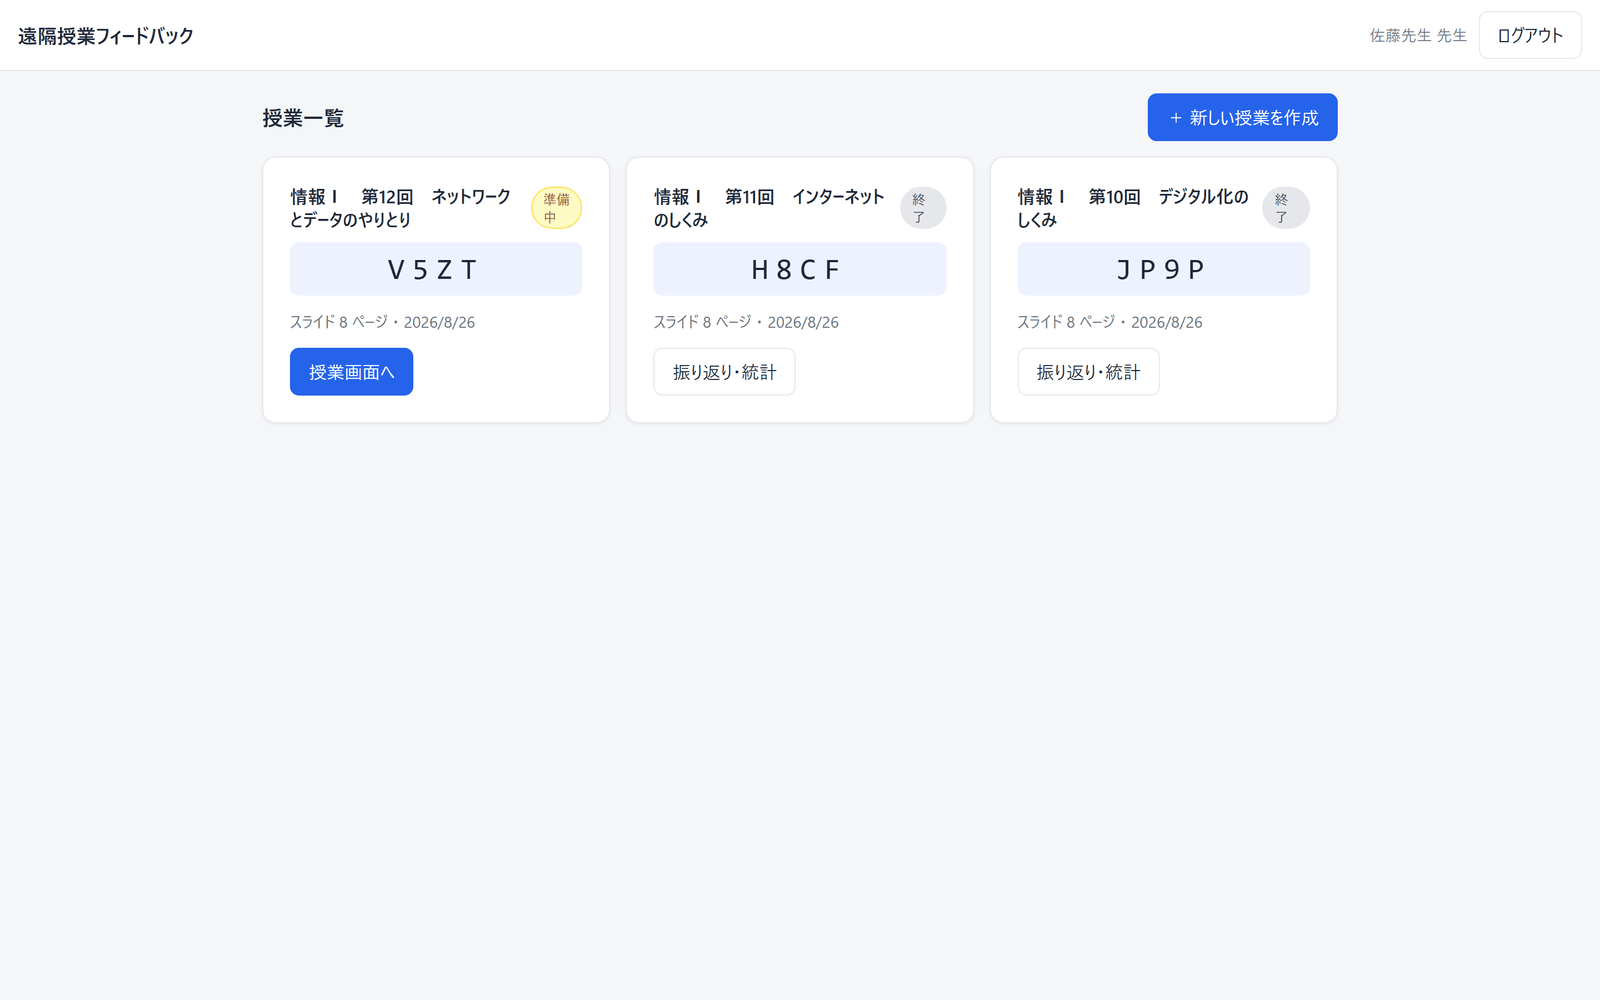
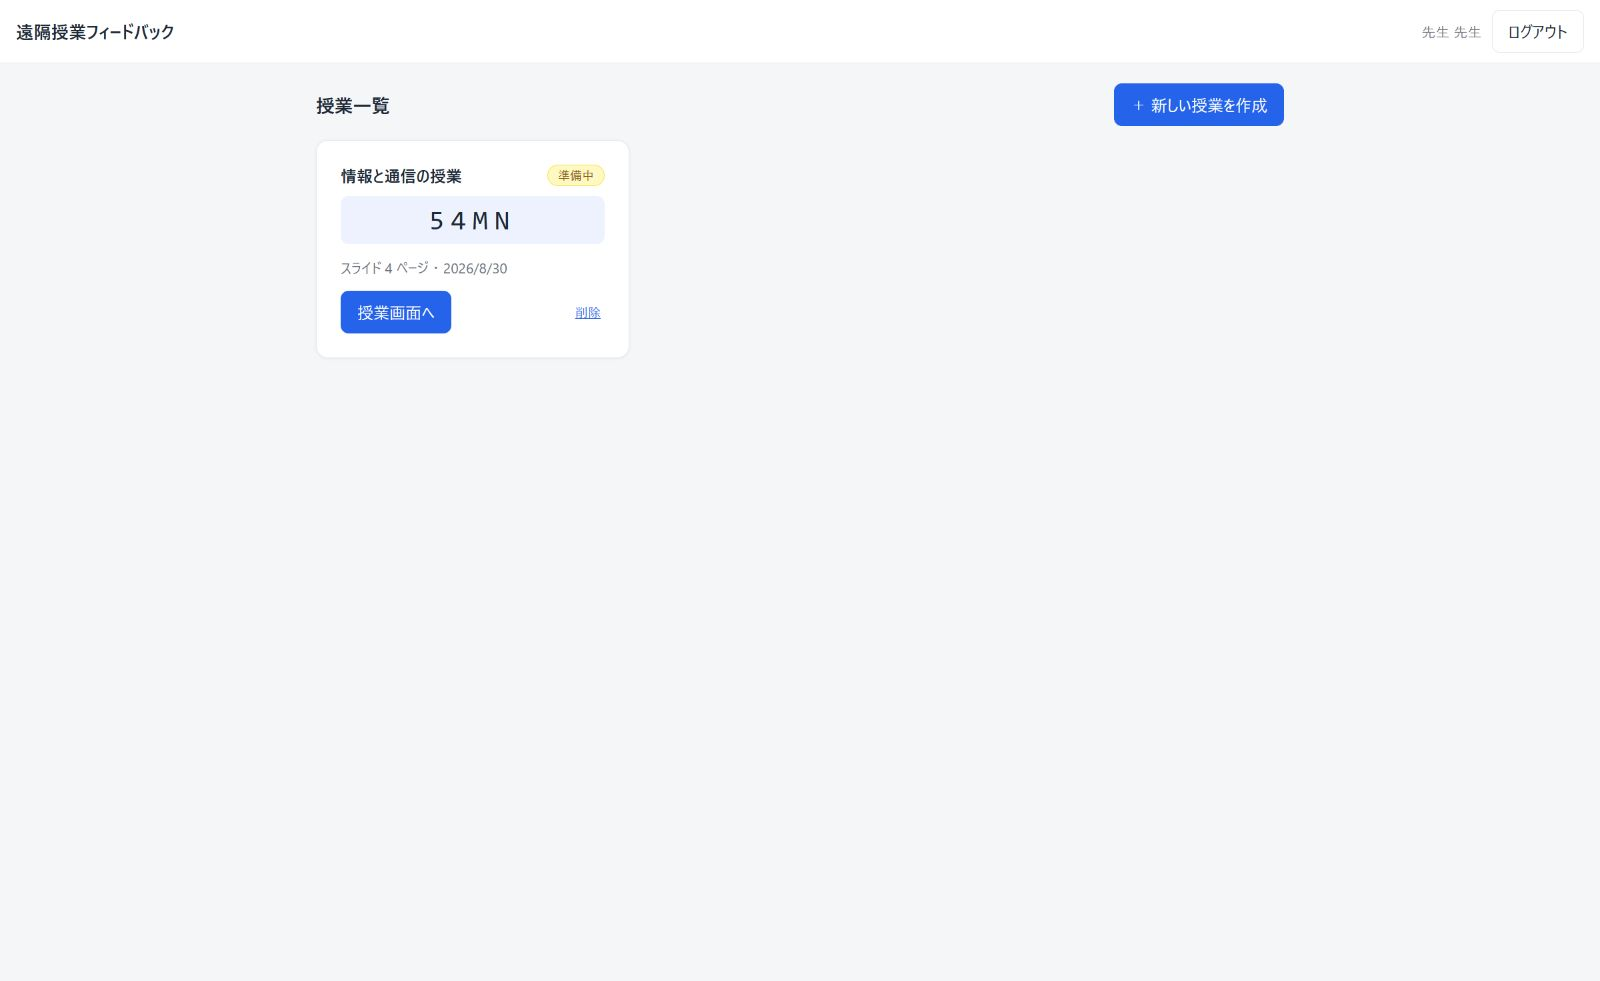
説明書と画面例を最終仕様に合わせる
READMEと関連文書から重複や旧仕様の説明を整理し、スライド操作、AI機能、教室モニター、コメント分類の現在の動作へ揃える。

画面例を最新UIへ差し替え、類似質問の統合、カード単位のチップ、授業外の分類、生徒5人の表示を反映する。

diff --git a/README.md b/README.md
@@ -5,12 +5,12 @@
 生徒の理解や進行度合いを、先生が授業中に把握しやすいよう支援します。
 
 生徒がボタン・コメント・タスク・アンケートで意思表示できます。
-AIによるコメント整理を使用すると、関連する説明や確認できない点などが項目別に表示されます。
+AIによるコメント整理を使用すると、コメントのカードに種類が付き、質問には説明済みの内容と未説明の内容が表示されます。
 授業後は、その瞬間に戻っての振り返りや、復習動画の作成ができます。
 
 先生も生徒もアプリのインストールは不要で、URLを開くだけで使えます。
 
-![先生の授業画面。スライドへの書き込みと、生徒から届いたコメント・反応が同じ画面に並ぶ](docs/images/teach.png)
+![先生の授業画面。スライドへの書き込みと、生徒から届いたコメントや反応が同じ画面に並ぶ](docs/images/teach.png)
 
 ---
 
@@ -75,7 +75,7 @@ AIによるコメント整理を使用すると、関連する説明や確認で
 
 | 機能 | 説明 |
 |---|---|
-| **スライド配信** | PDFをアップロードすると、ページ送り・書き込み・ポインターがリアルタイムで同期されます。画面のボタン、矢印キーなど、スライド一覧からページを移動できます |
+| **スライド配信** | PDFをアップロードすると、ページ送り・書き込み・ポインターがリアルタイムで同期されます。画面のボタン・矢印キー・スライド一覧からページを移動できます |
 | **音声配信** | 先生のマイク音声を低遅延で配信します。受信端末に応じて、Opus / AACを自動的に振り分けます |
 | **カメラ映像**（任意） | 先生の顔や手元の実演を、音声と同じストリームで配信します。生徒は端末ごとに映像を受信しない設定を選択できます |
 | **白紙スライドの挿入** | 授業中に白紙ページを挿入し、説明の書き込みに使用できます。元のPDFは変更されません |
@@ -83,9 +83,9 @@ AIによるコメント整理を使用すると、関連する説明や確認で
 | **自動字幕** | 先生の発話をリアルタイムで字幕表示します。先生の端末にはChromeまたはEdgeが必要です |
 | **タスク進捗** | 生徒がチェックした進捗を棒グラフで表示します。未完了の生徒は、進捗を変更していない時間が長い順に8人まで表示します |
 | **アンケート** | 選択式・段階評価・記述式の設問を表示します。選択式と段階評価の集計結果は、生徒へ公開するかどうかを選択できます |
-| **コメント整理**（任意） | コメントを受信すると、「関連する説明」「確認できない点」「授業外」「困りごと」「意見・感想」のうち該当する項目を表示します。近い時刻のコメントは1枚のカードにまとめます。カードは対応済みにするまで表示されます（[操作方法](docs/先生向けガイド.md#生徒の反応を見る)） |
+| **コメント整理**（任意） | コメントのカードに「質問」「困りごと」「授業外」「意見・感想」のチップを1つ付けます。質問には「説明した内容」「説明前の内容」を補足します。時刻が近く、同じ話題のコメントは1枚のカードにまとめます。カードは対応済みにするまで表示されます（[操作方法](docs/先生向けガイド.md#生徒の反応を見る)） |
 | **AI機能設定** | コメント整理、字幕履歴の補正、授業全体の要約、復習動画の自動章分けを授業ごとに選択できます。設定は授業開始前に行います |
-| **教室モニター** | 教室モニターや電子黒板に投影する表示専用ページです。参加用QRコードは、授業前に自動表示され、授業中も操作バーから表示できます |
+| **教室モニター** | 教室モニターや電子黒板に投影する表示専用ページです。参加用QRコードは、授業前に自動表示され、授業中も操作バーから表示できます。カメラ映像の配置は[先生向けガイド「対面授業との併用」](docs/先生向けガイド.md#対面授業との併用)に記載しています |
 
 ### 授業後
 
@@ -189,14 +189,14 @@ WebMを再生できる端末にも約4秒の遅延が加わります。
 
 ## 授業当日の流れ
 
-![先生のダッシュボード。ここから新しい授業を作り、終わった授業の振り返りも開く](docs/images/dashboard.png)
+![先生の授業一覧。ここから新しい授業を作り、授業画面を開く](docs/images/dashboard.png)
 
 1. **事前確認** — 教室の端末で`/check`を開き、接続・音声・マイクを確認します。
 2. **授業の作成** — `/dashboard`でPDFをアップロードします。作成後に、4文字の授業コードが表示されます。
 3. **参加方法の案内** — 授業コード、URL、QRコードのいずれかを生徒へ提示します。
 4. **機能の設定** — 使用するAI機能を選択します。授業を開始したあとは変更できません。
 5. **授業の開始** — 「授業を開始」を押すと、配信と録音が始まります。スライド移動・ポインターなどは、この時刻以降の操作を記録します。開始前の書き込みは、開始0分時点の状態として記録します。
-6. **授業中の操作** — 画面のボタン、キーボード、スライド一覧でページを移動し、必要に応じて書き込みます。コメント整理を使用する場合は、コメントの内容が5項目に整理されます。
+6. **授業中の操作** — 画面のボタン、キーボード、スライド一覧でページを移動し、必要に応じて書き込みます。コメント整理を使用する場合は、カードの種類と、質問に関係する説明が表示されます。
 7. **授業の終了** — 「授業を終了」を押します。終了後は、`/review/:id`で授業を振り返ることができます。
 
 各画面の操作は **[先生向けガイド](docs/先生向けガイド.md)** にあります。
@@ -218,7 +218,7 @@ flowchart LR
   SRV["サーバ<br/>Fastify + Socket.IO"]
   DB[("PostgreSQL")]
   FS[("ファイル<br/>PDF・録音")]
-  AI["AI<br/>Whisper / Claude / GPT"]
+  AI["OpenAI API<br/>文字起こし・要約"]
 
   T -->|"音声・映像・ページ送り・書き込み"| SRV
   SRV -->|"配信"| S
@@ -323,15 +323,9 @@ SUMMARY_PROVIDER=openai
 OPENAI_API_KEY=sk-...
 ```
 
-要約にAnthropicを使用する場合：
-
-```env
-SUMMARY_PROVIDER=anthropic
-ANTHROPIC_API_KEY=sk-ant-...
-```
-
-モデルの既定値は `OPENAI_MODEL` / `ANTHROPIC_MODEL` で変更できます（`server/src/config.ts`）。
-Claude API は音声入力に対応していないため、**文字起こしは常に OpenAI Whisper** を使います。
+モデルの既定値は`OPENAI_MODEL`で変更できます（`server/src/config.ts`）。
+開発時のモック応答と要約プロバイダーの切り替えは、
+[ARCHITECTURE.md「AIプロバイダーの切り替え」](docs/ARCHITECTURE.md#aiプロバイダーの切り替え)に記載しています。
 
 ### 生徒を模擬する
 

diff --git a/docs/導入を検討する方へ.md b/docs/導入を検討する方へ.md
@@ -19,7 +19,7 @@
 生徒は、カメラとマイクを使用せずに意思表示できます。
 使用できる方法は、「わかった／わからない」などのボタン、コメント、タスクの進捗、アンケートです。
 
-AIによるコメント整理を使用すると、関連する説明や確認できない点などが項目別に表示されます。
+AIによるコメント整理を使用すると、コメントのカードに種類が付き、質問には説明済みの内容と未説明の内容が表示されます。
 授業終了後は、コメントが届いた時点の確認と、復習動画の作成ができます。
 
 ---
@@ -88,11 +88,11 @@ AIによるコメント整理を使用すると、関連する説明や確認で
 |---|---|---|---|
 | **自動字幕**（リアルタイム） | ブラウザが提供する音声認識サービス | 先生の音声 | 字幕を使わなければ送られません |
 | **文字起こし** | OpenAI | 先生の音声、授業名、PDFから抽出した用語 | 4つのAI機能をすべて外した授業では送られません |
-| **授業全体の要約・コメント整理** | OpenAIまたはAnthropic（サーバの設定による） | 先生の発言の文字起こし、生徒が送ったコメントの本文 | 選択した機能を使用した場合だけ送られます |
-| **復習動画の自動章分け** | OpenAIまたはAnthropic（サーバの設定による） | 先生の発言の文字起こし、PDFの本文 | 自動章分けを実行した場合だけ送られます |
+| **授業全体の要約・コメント整理** | OpenAI | 先生の発言の文字起こし、生徒が送ったコメントの本文 | 選択した機能を使用した場合だけ送られます |
+| **復習動画の自動章分け** | OpenAI | 先生の発言の文字起こし、PDFの本文 | 自動章分けを実行した場合だけ送られます |
 
 生徒が送ったコメントは、本文が外部へ送られます。
-コメントに関係する説明などを5項目に整理するためです。
+コメントカードの種類を判定し、質問に関係する説明済みの内容と未説明の内容を整理するためです。
 コメントの本文だけを送信し、名前と端末情報は付けません。
 
 自動字幕は、先生の端末のブラウザが提供する音声認識を使用します。
@@ -124,7 +124,7 @@ AIによるコメント整理を使用すると、関連する説明や確認で
 | **生徒**（各自の端末で音を聞く） | 同上 | 上に加えて音声 |
 | **生徒**（カメラ映像も見る） | 同上 | 上に加えて先生の映像 |
 | **先生** | マイクを使用できるPC。自動字幕を使用する場合はChromeまたはEdge | 配信・書き込み・授業後のAI処理 |
-| **教室のモニター** | 対応ブラウザを搭載したテレビも使用可能。映像を表示する場合は720pを再生できる端末 | 音声・スライド・字幕の表示 |
+| **教室のモニター** | 対応ブラウザを搭載したテレビも使用可能。映像を表示する場合は720pを再生できる端末 | 音声・スライド・字幕・先生の映像（任意）の表示 |
 | **サーバ** | Render 0.5c-512mb（旧Starter）相当のクラウド環境と永続ディスク | — |
 
 必要な通信速度は、次の「回線」で確認できます。
